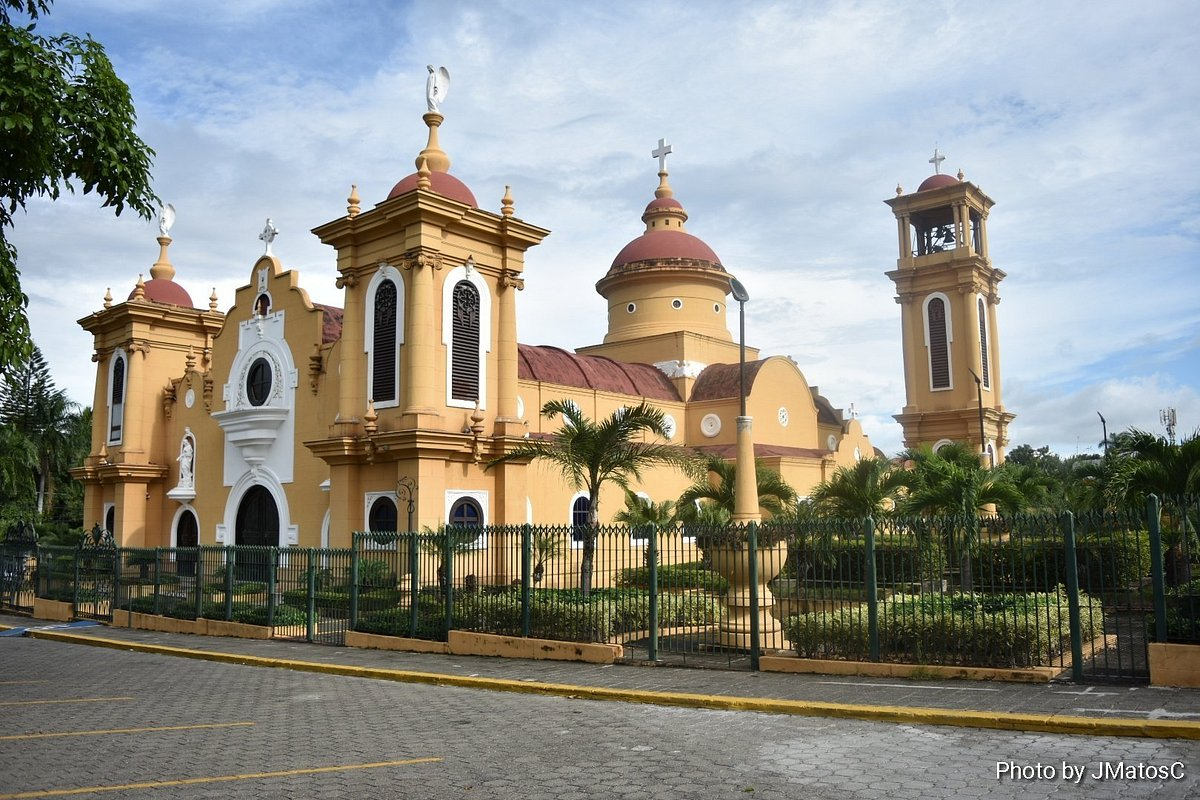
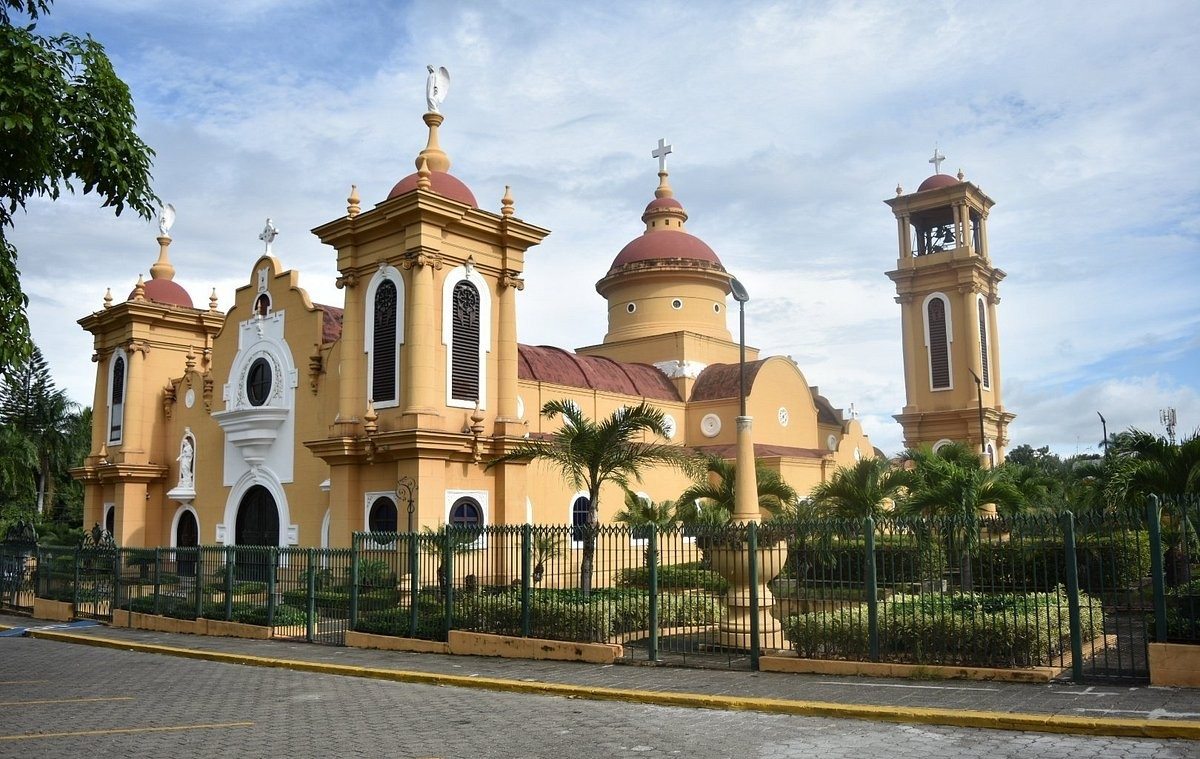
Fifth commit

diff --git a/index.html b/index.html
@@ -240,7 +240,7 @@
                 </div>
             </div>
         </section>
-        <footer>Con amor, <strong>Celeste &amp; Ronald</strong> · 5 de Diciembre 2026</footer>
+        <footer>Con amor, <strong>Celeste &amp; Ronald</strong> · 05 de Diciembre 2026</footer>
     </div>
 
     <!-- ═══════════════ RECEPCIÓN ═══════════════ -->
@@ -363,7 +363,7 @@
                 <p class="verse-ref">Eclesiastés 4:12</p>
             </div>
         </section>
-        <footer>Con amor, <strong>Celeste &amp; Ronald</strong> · 5 de Diciembre 2026</footer>
+        <footer>Con amor, <strong>Celeste &amp; Ronald</strong> · 05 de Diciembre 2026</footer>
     </div>
 
     <!-- ═══════════════ REGALOS ═══════════════ -->
@@ -401,7 +401,7 @@
                 <span class="gift-venmo">@celesteauroram</span>
             </div>
         </section>
-        <footer>Con amor, <strong>Celeste &amp; Ronald</strong> · 5 de Diciembre 2026</footer>
+        <footer>Con amor, <strong>Celeste &amp; Ronald</strong> · 05 de Diciembre 2026</footer>
     </div>
 
     <!-- ═══════════════ VESTIMENTA ═══════════════ -->